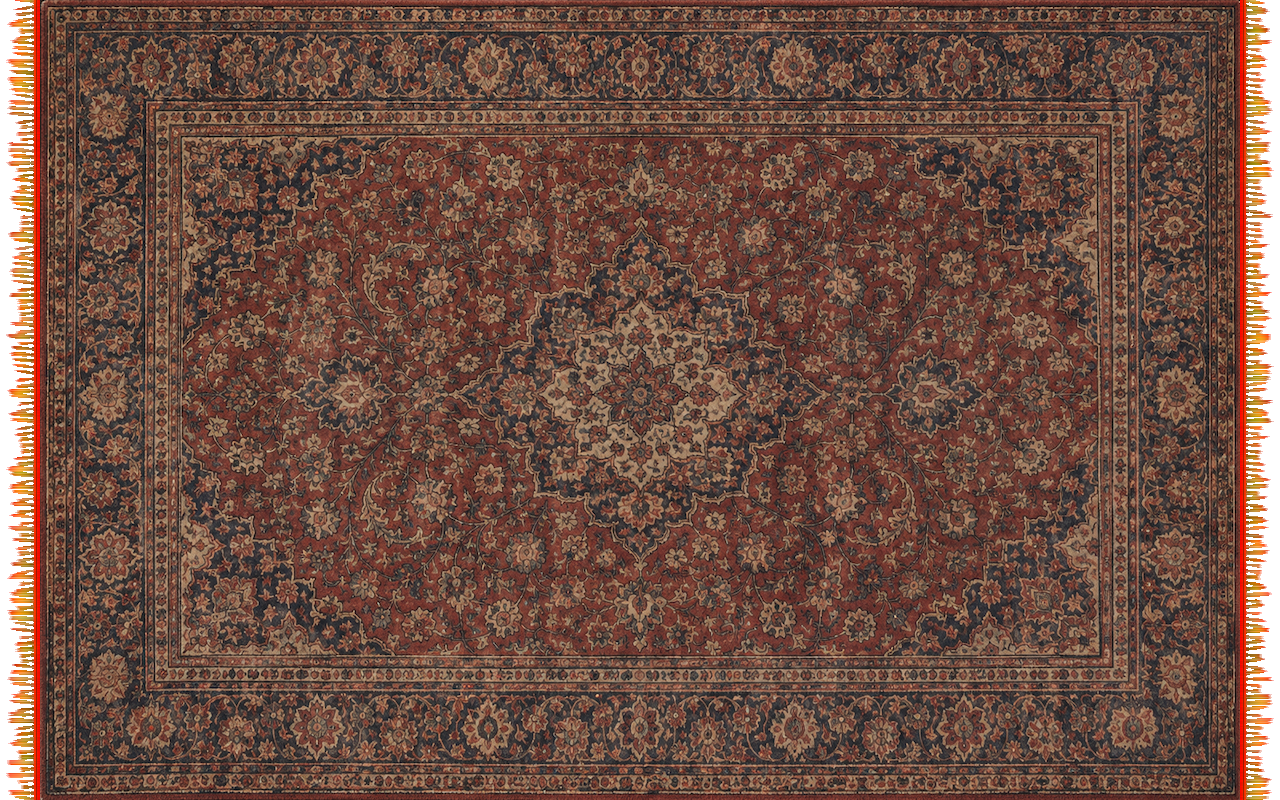
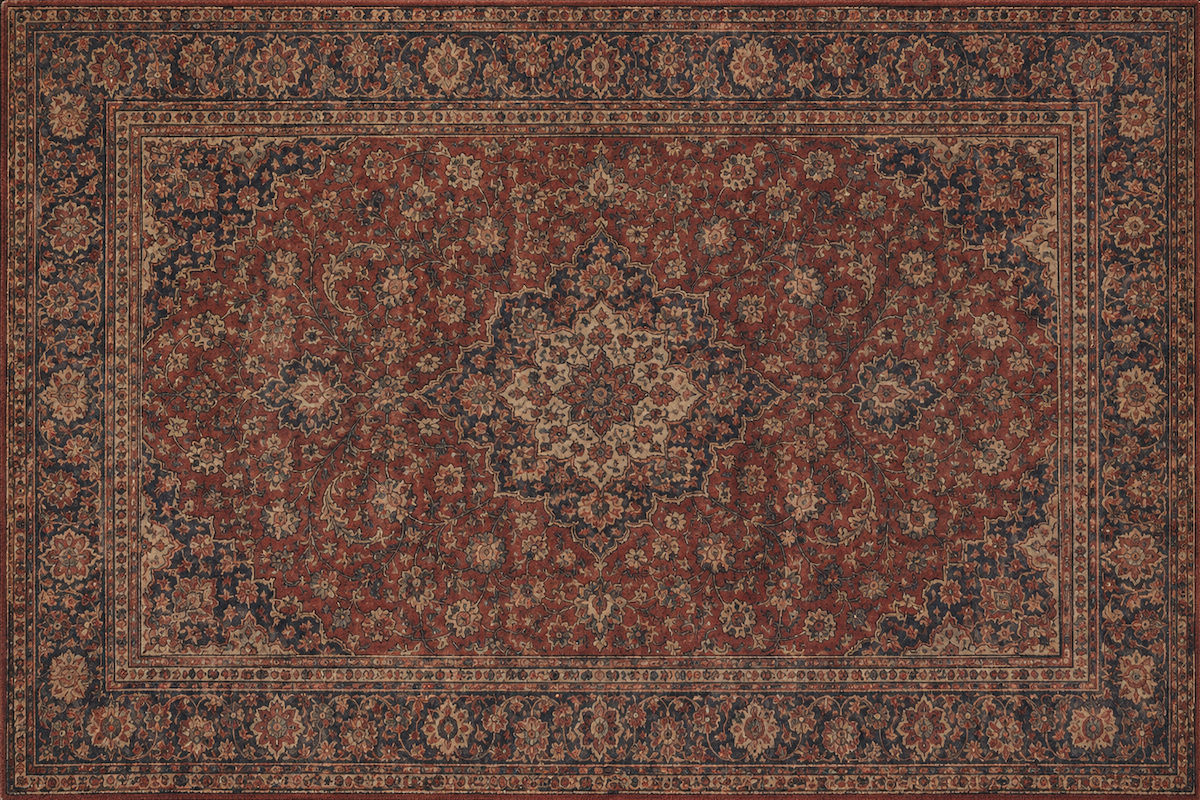
Remove the rug's cream end bands and tufted fringes so it ends at its pile.

diff --git a/tools/materials/rug.py b/tools/materials/rug.py
@@ -1,23 +1,18 @@
 #!/usr/bin/env python3
-"""Makes the library's rug from ChatGPT's picture of it, with its end bands and fringes.
+"""Makes the library's rug from ChatGPT's picture of it.
 
     python3 -I tools/materials/rug.py OUT_DIR [--preview]
 
 Reads design/manor/pieces/library-rug-01.png (local, not in git; MANOR_DIR points to
 another checkout's design/manor): a dense Kashan-type rug seen straight down in even light,
 1536 x 1024 with a little dark floor round it. Cuts the floor away, scales the pile to
-3.0 by 2.0 m and adds what the picture lacks: a narrow cream end band (a flat-woven strip)
-and a fringe of cream tufts past each short end, and a little more wear where the players'
-chairs stand and along the walk.
+3.0 by 2.0 m and adds a little more wear where the players' chairs stand and along the walk.
 
-Writes rug.png, 1280 x 800 RGBA at 2.5 mm a texel (400 a metre): 3.2 m along by 2.0 m
-across, the pile in the middle 3.0 m, the end band and fringe in the 0.1 m at each end.
-On the pile RGB is the albedo and A is 1. Past the ends (shaders::ROOM_FRAG reads them so)
-R is the cream's shade (the band and the strands, the colour itself is the shader's
-RUG_CREAM), G the floor's shade under the tufts (their small shadows), B 0, and A the
-strands' cover. The colours are stored with a 2.2 gamma, not sRGB's curve, since the shader
-decodes with pow(c, 2.2): so the room shows the picture's own colours, its darks too.
---preview also writes rug_preview.png, the rug on a floor-brown ground.
+Writes rug.png, 1200 x 800 RGBA at 2.5 mm a texel (400 a metre): 3.0 m along by 2.0 m
+across, the pile alone, with no end bands or fringes. RGB is the albedo and A is 1. The
+colours are stored with a 2.2 gamma, not sRGB's curve, since the shader decodes with
+pow(c, 2.2): so the room shows the picture's own colours, its darks too.
+--preview also writes rug_preview.png, the pile in sRGB.
 """
 
 import os
@@ -31,9 +26,8 @@ import common as cm  # noqa: E402
 SOURCE = 'library-rug-01.png'
 CROP = (18, 13, 1518, 997)  # the pile in the picture (left, top, right, bottom): 1500 x 984
 TEXEL_M = 0.0025
-W, H = 1280, 800            # 3.2 m by 2.0 m
+W, H = 1200, 800            # 3.0 m by 2.0 m
 HALF = (1.5, 1.0)           # the pile's half length and width, metres
-BAND = 0.015                # the cream end band past the pile
 SEED = 11
 
 
@@ -56,74 +50,17 @@ def wear(img, x, y):
     img += (grey - img) * w[..., None]
 
 
-def blur(a, r):
-    """A box blur of radius r texels, three times (near a Gaussian)."""
-    for _ in range(3):
-        for axis in (0, 1):
-            c = np.cumsum(np.pad(a, [(r + 1, r) if i == axis else (0, 0) for i in range(2)], mode='edge'), axis)
-            hi = np.take(c, np.arange(2 * r + 1, c.shape[axis]), axis)
-            lo = np.take(c, np.arange(0, c.shape[axis] - 2 * r - 1), axis)
-            a = (hi - lo) / (2 * r + 1)
-    return a
-
-
-def ends(x, y):
-    """Past the pile: the end band and the fringe's tufts. Returns the cream's shade, the
-    floor's shade under them, and the cover."""
-    out = np.abs(x) - HALF[0]
-    side = (x > 0).astype(np.int64)
-    row = np.floor(y / TEXEL_M).astype(np.int64)
-    # The band: weft rows across, a darker pair of lines in it, each warp its own.
-    band = out < BAND
-    shade = np.where(band, 0.92 + 0.08 * cm.rand(row * 2 + side, SEED + 20), 0.0)
-    shade = np.where(band & (np.abs(out - 0.6 * BAND) < 0.0016), 0.62, shade)
-    # The tufts: the warps gathered in bundles of about 1.5 cm, knotted 8 mm out, then
-    # splayed and frayed; each bundle its own width, lean and length.
-    f = out - BAND
-    k = np.floor(y / 0.015)
-    key = (k * 2 + side).astype(np.int64)
-    width = 0.015 * (0.65 + 0.55 * cm.rand(key, SEED + 2))
-    lean = (cm.rand(key, SEED + 3) - 0.5) * 0.5
-    length = 0.035 + 0.035 * cm.rand(key, SEED + 4)
-    knot = 0.008
-    yc = (k + 0.5) * 0.015 + lean * np.clip(f - knot, 0, None)
-    half = np.where(f < knot, 0.45 * width - 0.2 * width * f / knot,
-                    np.minimum(0.25 * width + 0.12 * (f - knot), 0.42 * width))
-    own = length * (0.88 + 0.15 * cm.rand(row * 2 + side, SEED + 5))
-    strands = (np.abs(y - yc) < half) & (f > 0) & (f < own)
-    a = strands * np.clip((own - f) / 0.008, 0.35, 1.0) * (0.65 + 0.35 * cm.rand(row * 2 + side, SEED + 6))
-    s = (0.72 + 0.28 * np.clip((f - knot) / 0.03, 0, 1)) * (0.8 + 0.2 * cm.rand(row * 2 + side, SEED + 12))
-    s = np.where(np.abs(f - knot) < 0.0025, 0.55, s)
-    s *= 0.85 + 0.3 * cm.rand(key, SEED + 7)
-    shade = np.where(band, shade, s)
-    cover = np.where(band, 1.0, a)
-    # The tufts' small shadows on the floor round them, a little toward the room's side.
-    under = blur(np.roll(np.clip(cover * (f > 0), 0, 1), 2, axis=0), 3)
-    floor = np.clip(under * 1.4, 0, 1) * 0.6
-    return np.clip(shade, 0, 1), floor, np.clip(cover, 0, 1)
-
-
 def bake(out, preview):
     xs = (np.arange(W) + 0.5) * TEXEL_M - W * TEXEL_M / 2
     ys = (np.arange(H) + 0.5) * TEXEL_M - H * TEXEL_M / 2
     x, y = np.meshgrid(xs, ys)
-    inside = np.abs(x) < HALF[0]
-    img = np.zeros((H, W, 3), np.float32)
-    x0 = (W - round(2 * HALF[0] / TEXEL_M)) // 2
-    img[:, x0:W - x0] = pile()
+    img = pile()
     wear(img, x, y)
-    shade, floor, cover = ends(x, y)
-    a = np.where(inside, 1.0, cover).astype(np.float32)
-    # The 2.2 gamma the shader decodes; past the ends the shade (as linear) and the floor's.
+    # The 2.2 gamma the shader decodes.
     rgb = np.clip(img, 0, 1) ** (1 / 2.2)
-    rgb[~inside] = np.stack([shade, floor, np.zeros_like(shade)], -1)[~inside]
-    cm.save(os.path.join(out, 'rug.png'), rgb, a)
+    cm.save(os.path.join(out, 'rug.png'), rgb, np.ones((H, W), np.float32))
     if preview:
-        cream = np.array([0.5, 0.44, 0.33], np.float32)
-        lin = np.where(inside[..., None], np.clip(img, 0, 1), cream * shade[..., None])
-        ground = cm.to_linear(cm.hex_rgb('#3a2618')) * (1 - np.where(inside, 0, floor))[..., None]
-        p = lin * a[..., None] + ground * (1 - a[..., None])
-        cm.save(os.path.join(out, 'rug_preview.png'), cm.to_srgb(p))
+        cm.save(os.path.join(out, 'rug_preview.png'), cm.to_srgb(np.clip(img, 0, 1)))
 
 
 if __name__ == '__main__':

diff --git a/src/native/materials.c b/src/native/materials.c
@@ -152,8 +152,8 @@ bool draughts_outside_picture(int64_t which, bytes out, int64_t w, int64_t h) {
     return decode_rgba(band, sizeof band, out, w, h);
 }
 
-// The rug under the games table into `out`, w × h RGBA8 as stored (albedo at a 2.2 gamma, coverage in
-// A), or false when it isn't built in or isn't that size.
+// The rug under the games table into `out`, w × h RGBA8 as stored (albedo at a 2.2 gamma, A 1), or false when it isn't
+// built in or isn't that size.
 bool draughts_rug(bytes out, int64_t w, int64_t h) {
     return decode_rgba(rug, sizeof rug, out, w, h);
 }

diff --git a/design/materials/README.md b/design/materials/README.md
@@ -10,7 +10,7 @@ built into the program from here (`src/native/materials.c`).
 | `outside_band.png` | The park's far tree line on a cylinder 110 m out (`tools/materials/outside.py`), 2048 × 336 RGBA over ±64° from straight out, 16 px a degree, rows linear in height from 14.05 m under the lawn to 26.26 m over it; sRGB, premultiplied in linear light, its sky cut to clear; 0.44 MB. `model3d::view_out` puts it on its cylinder round the middle window, `shaders::OUTSIDE_FRAG` draws it unlit. In git. |
 | `outside_oak.png` | The oak, 29.8 × 20 m, a billboard 70 m out at 22° right of straight out, 584 × 392 RGBA as the band, 0.26 MB. In git. |
 | `books_atlas.png` | The library's books' spines (`tools/materials/books.py`), 1024 × 928 RGBA at 0.7 texels a millimetre, 194 cells (a volume each of `book_titles.py`'s 51 titles) packed in rows by height with 4 texels between: R the cover's tone (in 64 steps), G gilt or ink, B the label, A wear (in 16 steps), 1.03 MB. The baker writes its cells and the covers' and labels' colours as `src/model3d/book_cells.goose`; `shaders::ROOM_FRAG` colours a spine from them (`model3d::books`). In git. |
-| `rug.png` | The rug under the games table (`tools/materials/rug.py`), ChatGPT's `library-rug-01.png` cut from its floor: 1280 × 800 RGBA at 2.5 mm a texel, 3.2 m along (the pile's 3 m, then a cream end band and the fringe's tufts in the 0.1 m at each end) by 2.0 m; on the pile the albedo at a 2.2 gamma (the shader's decode) and A 1, past the ends R the cream's shade, G the tufts' shadows on the floor and A their cover; 2.7 MB. `shaders::ROOM_FRAG` lays it on the floor round the table (`render3d::put_rug`). In git. |
+| `rug.png` | The rug under the games table (`tools/materials/rug.py`), ChatGPT's `library-rug-01.png` cut from its floor: 1200 × 800 RGBA at 2.5 mm a texel, the pile alone, 3.0 m along by 2.0 m, with no end bands or fringes; the albedo at a 2.2 gamma (the shader's decode) and A 1; 2.6 MB. `shaders::ROOM_FRAG` lays it on the floor round the table (`render3d::put_rug`). In git. |
 | `lace_f2.png`, `lace_f.png`, `lace_d.png` | The curtains' lace, three ways of it while the choice is open (f2 shown, the light tuner's `--lace` picks another): the way's field tile (1024 rows over 0.56 m, `surfaces::LACE_TILE`) over its hem's border (384 rows, 0.21 m), 1024 × 1408 L8, 0.7 MB each: 0 where the light passes, 1 the thread. `tools/materials/lace_panel.py` puts each together from the lace library's bake (`tools/materials/lace_rose2.py` for f2, `lace_rose.py` for f, `lace_blossom.py` for d); `shaders::ROOM_FRAG` reads down the field's tile and on into the hem at the cloth's foot. In git; the two not chosen go once the user chooses. |
 
 To make the mask again, with numpy and Pillow from Homebrew and the downloads of

diff --git a/docs/decisions/rendering.md b/docs/decisions/rendering.md
@@ -760,7 +760,7 @@ to be is in tasks 042, 059, 071, 081, and 086.
 - The library's rug is drawn by the floor's shader, not as a mesh (2026-11-24, task 107,
   `build/notes/rug-build/`): a rectangle in the room's frame round the table, its picture
   sampled where the eye's ray meets its top 8 mm up, its side where the ray meets the
-  floor under it, its fringes past the ends by their cover. The rug then takes all of the
+  floor under it. The rug then takes all of the
   floor's light for one texture tap and a few comparisons in the floor's shader, and adds
   no draw, pipeline or material group; the floor's mirror and the herringbone's joints
   and wax fade out under it. Its size and place (3 by 2 m along the window wall, its middle 0.1 m into the room from
@@ -772,17 +772,17 @@ to be is in tasks 042, 059, 071, 081, and 086.
   floor and scaled to the pile (2026-11-25, task 107, `build/notes/rug-swap/`; replaces
   the 2026-11-24 choice of a design drawn by our own baker, which the user found read as
   clip-art beside it). The rug went from 3 by 2.2 m to 3 by 2 m so the picture keeps its
-  3:2. The baker (`tools/materials/rug.py`) keeps only what the picture lacks: a cream
-  end band and a fringe of irregular tufts with their small shadows (the concepts'
-  `style-01`), and a little more wear where the chairs stand and along the walk. The
+  3:2. The baker (`tools/materials/rug.py`) keeps only what the picture lacks: a little
+  more wear where the chairs stand and along the walk. The fringes were removed at the
+  user's word (2026-11-25, `build/notes/rug-swap/no-fringe/`): the rug ends at its pile,
+  with no cream end band or tufts, and the contact shadow runs round all four sides. The
   pile's colours are stored at the shader's 2.2 gamma, not sRGB's curve, so its darks
   aren't darkened by the decode; no tint or scale goes on the albedo (a grey stand-in
   lit in its place gave the room's light, and the rug under it reads as the picture
   within the tone curve's toe). The edge as the concepts: the side at 0.3 of the pile,
   the floor's contact to 0.4 over 3.5 cm, the floor's mirror stopping at the rug.
-  Rejected: our own drawn design (too clean, graphic), the first download-based bake (a
-  photograph with wrinkles in its colour), and a second texture tap for the tufts'
-  shadows (they are baked into the picture's G past the ends).
+  Rejected: our own drawn design (too clean, graphic) and the first download-based bake (a
+  photograph with wrinkles in its colour).
 - The library's stove is option A of `build/notes/stove/` (2026-11-24, task 107,
   `build/notes/stove-build/`; `room_shell::stove`): a pale celadon corner stove with a cut
   front corner, 3.42 m to its crest's top, in the corner of the hall wall and the stove's

diff --git a/docs/architecture/rendering.md b/docs/architecture/rendering.md
@@ -820,17 +820,15 @@ farther into the room than the table's. It is no mesh: the floor's shader draws 
 it lies (`ROOM_FRAG`'s rug, in the floor's material group), so it takes the floor's light
 as it is: the sun's patches, the table's shadow, the baked probes and the corners' shade.
 The shader lifts each floor pixel toward the eye by the rug's 8 mm to find its top, so
-from a low eye the rug has a dark side and hides the floor just behind it; past its two
-ends a cream end band and a fringe of tufts lie on the floor by their cover, each tuft
-with a small shadow round it, and round the pile the floor is darker for 3.5 cm. The
+from a low eye the rug has a dark side and hides the floor just behind it; round the pile,
+on all four sides alike, the floor is darker for 3.5 cm. The
 pile is wool, roughness 1, a little brighter toward grazing (a faint sheen), and holds
-none of the floor's mirror. Its picture (`design/materials/rug.png`, 1280 × 800 RGBA8
-at 2.5 mm a texel with five mips, 5.5 MB on the GPU) is ChatGPT's rug
+none of the floor's mirror. Its picture (`design/materials/rug.png`, 1200 × 800 RGBA8
+at 2.5 mm a texel with five mips, 5.1 MB on the GPU) is ChatGPT's rug
 (`design/manor/pieces/library-rug-01.png`, local) cut from its floor and scaled by
-`tools/materials/rug.py`, which adds the end bands, the tufts and a little wear where
-the chairs stand. The pile's colours are stored at the 2.2 gamma the shader decodes, so
-the room shows the picture's own colours; past the ends the picture holds the cream's
-shade and the tufts' shadows instead (the cream itself is `ROOM_FRAG`'s `RUG_CREAM`).
+`tools/materials/rug.py`, which adds a little wear where the chairs stand. The pile's
+colours are stored at the 2.2 gamma the shader decodes, so the room shows the picture's
+own colours.
 The light tuner's `--rug off` leaves it out.
 
 ### The library's stove

diff --git a/tasks/107-manor-scene.md b/tasks/107-manor-scene.md
@@ -866,15 +866,15 @@ gain needs direct compressed-sample measurements.
       swapped 2026-11-25, `build/notes/rug-swap/`): ChatGPT's dense Kashan-type rug
       (`design/manor/pieces/library-rug-01.png`) cut from its floor by
       `tools/materials/rug.py`, 3 by 2 m along the window wall (so the picture keeps its
-      3:2), its middle 0.1 m into the room from the table's, with a cream end band and a
-      fringe of irregular cream tufts at each end and a little wear where the chairs stand.
+      3:2), its middle 0.1 m into the room from the table's, ending at its pile (the cream end
+      bands and fringes were removed at the user's word, 2026-11-25) with a little wear where
+      the chairs stand.
       Drawn by the floor's shader where it lies, so it takes the floor's light; 8 mm thick
       by the eye's ray lifted to its top (a dark side from a low eye), a soft contact
-      shadow on the floor round it, the tufts' small shadows, no mirror on the wool, a faint
+      shadow on the floor round it, no mirror on the wool, a faint
       sheen toward grazing. Its colours are the picture's (stored at the shader's 2.2
       gamma; no tint). The light tuner's `--rug off` and Rug switch in the table's section.
-      The game's shot unchanged (max 0); costs in task 110. Still off: the tufts read as a
-      comb from a low eye (no light or shadow of their own beyond the baked shade), the
+      The game's shot unchanged (max 0); costs in task 110. Still off: the
       side is a flat 0.3 shade with no pile texture, the room's dim warm light and tone
       curve make it darker and redder than the picture, and the rug isn't in the room's
       probes' bake.
